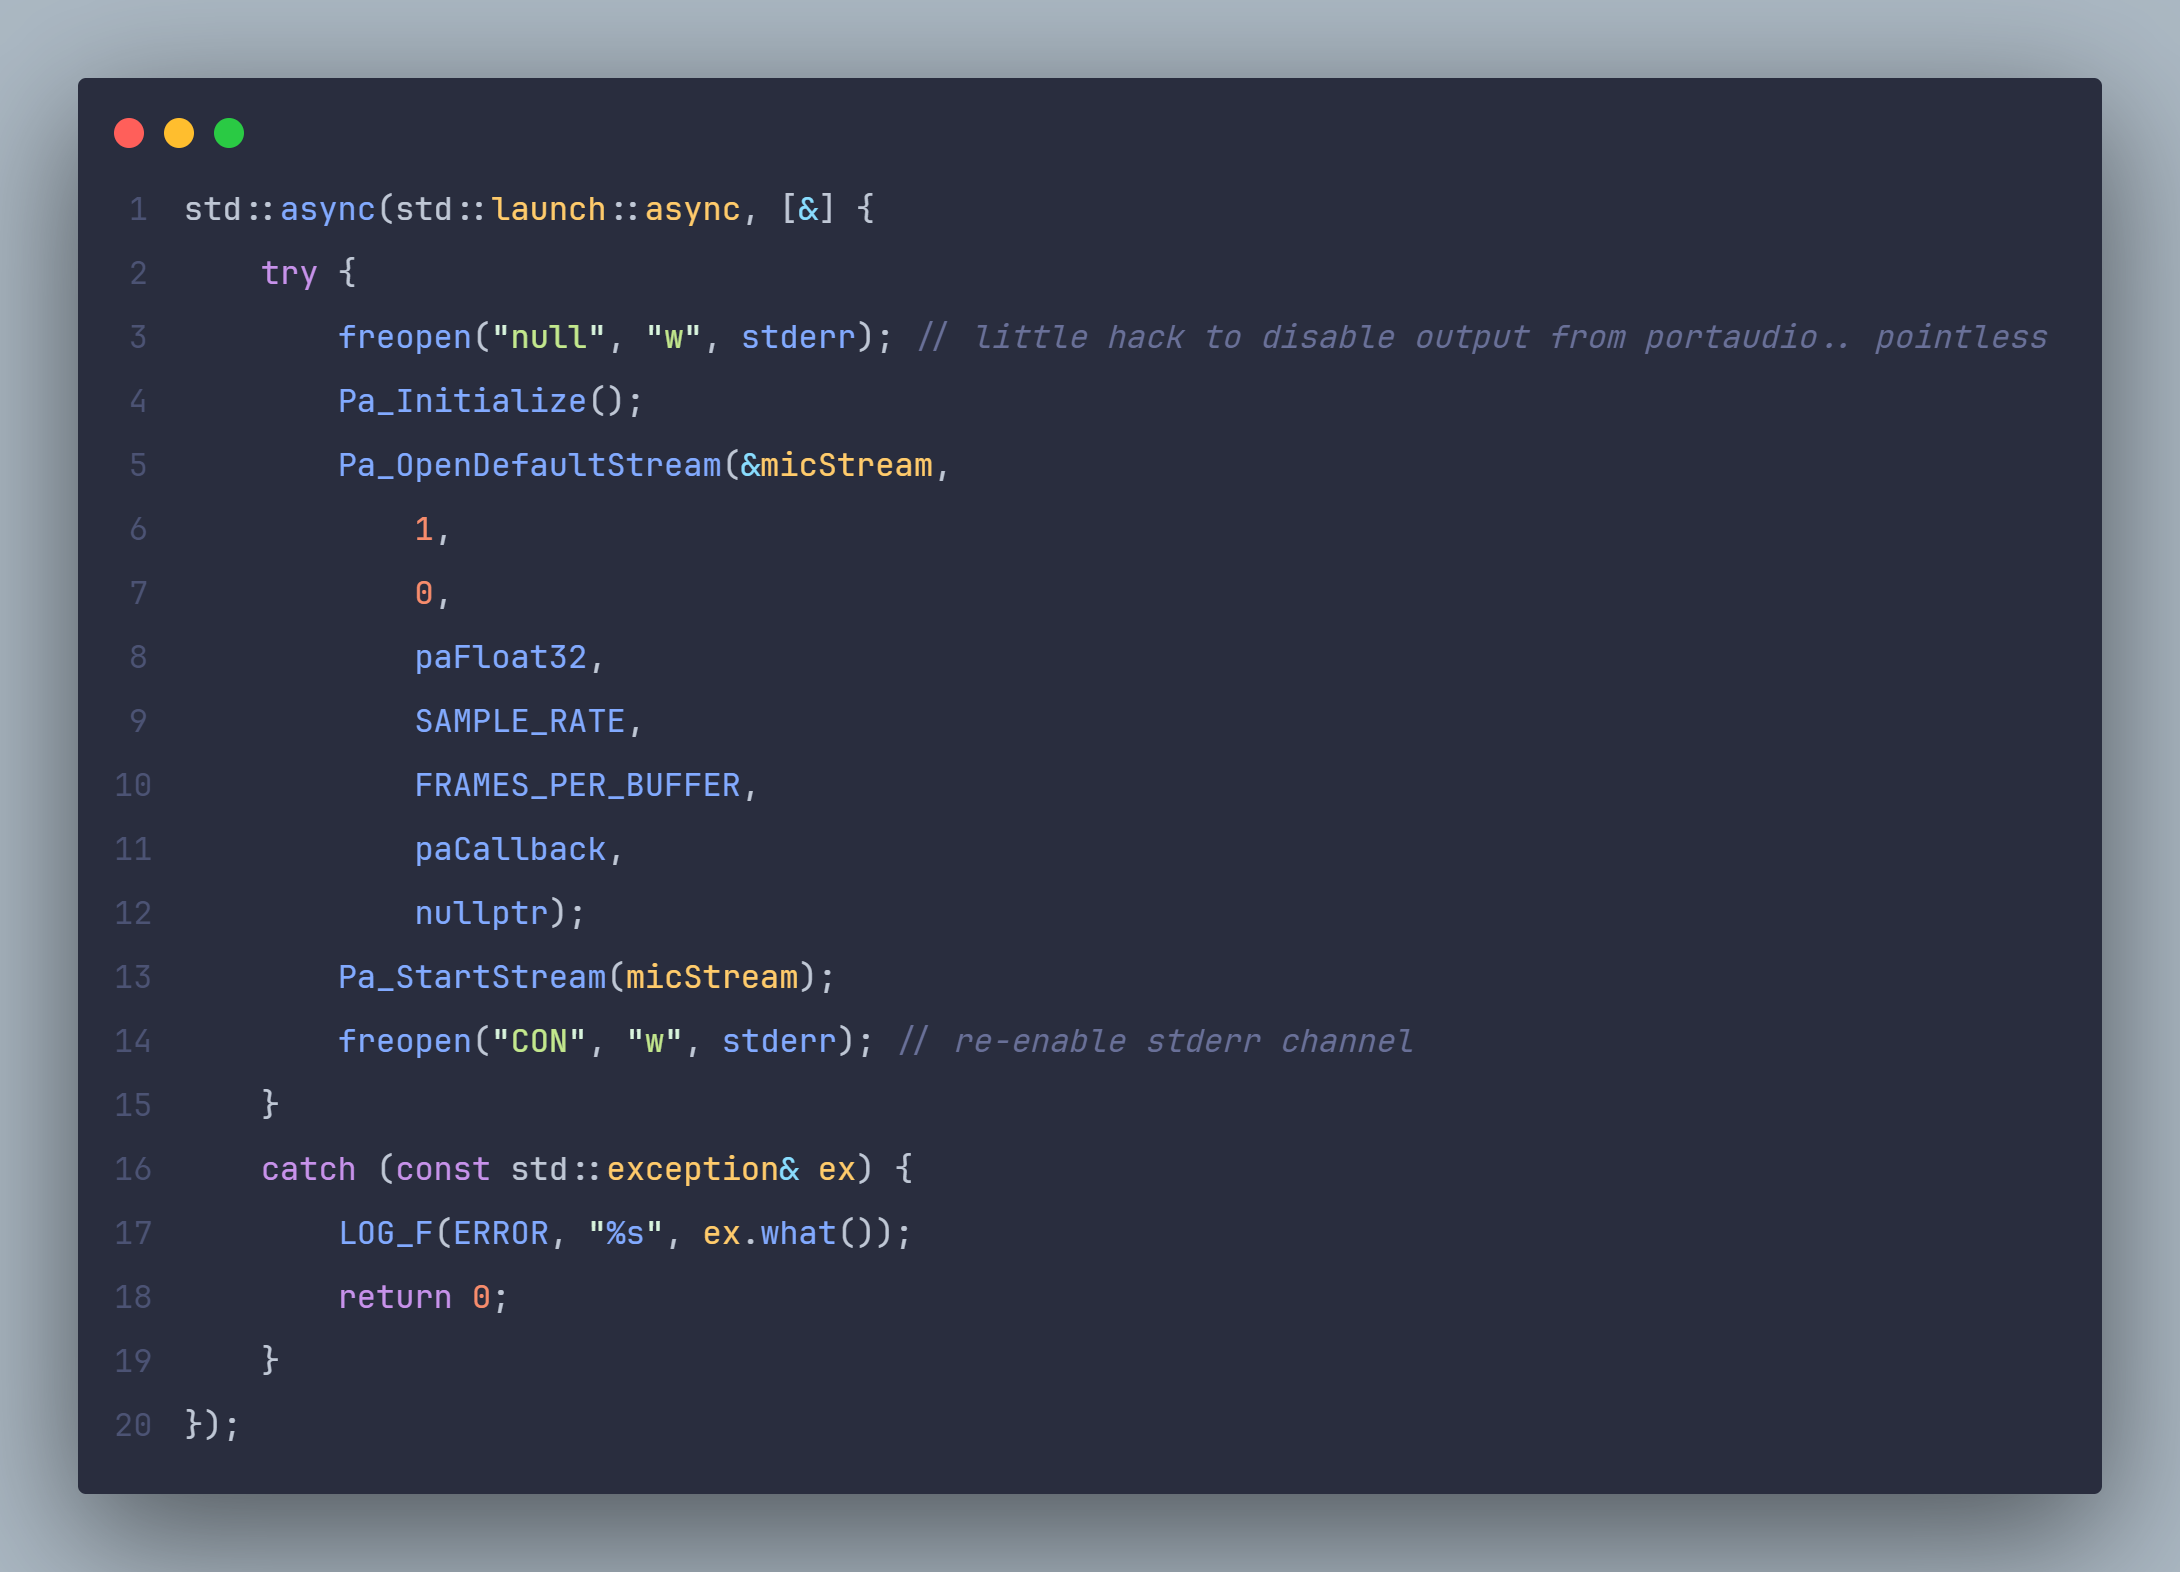
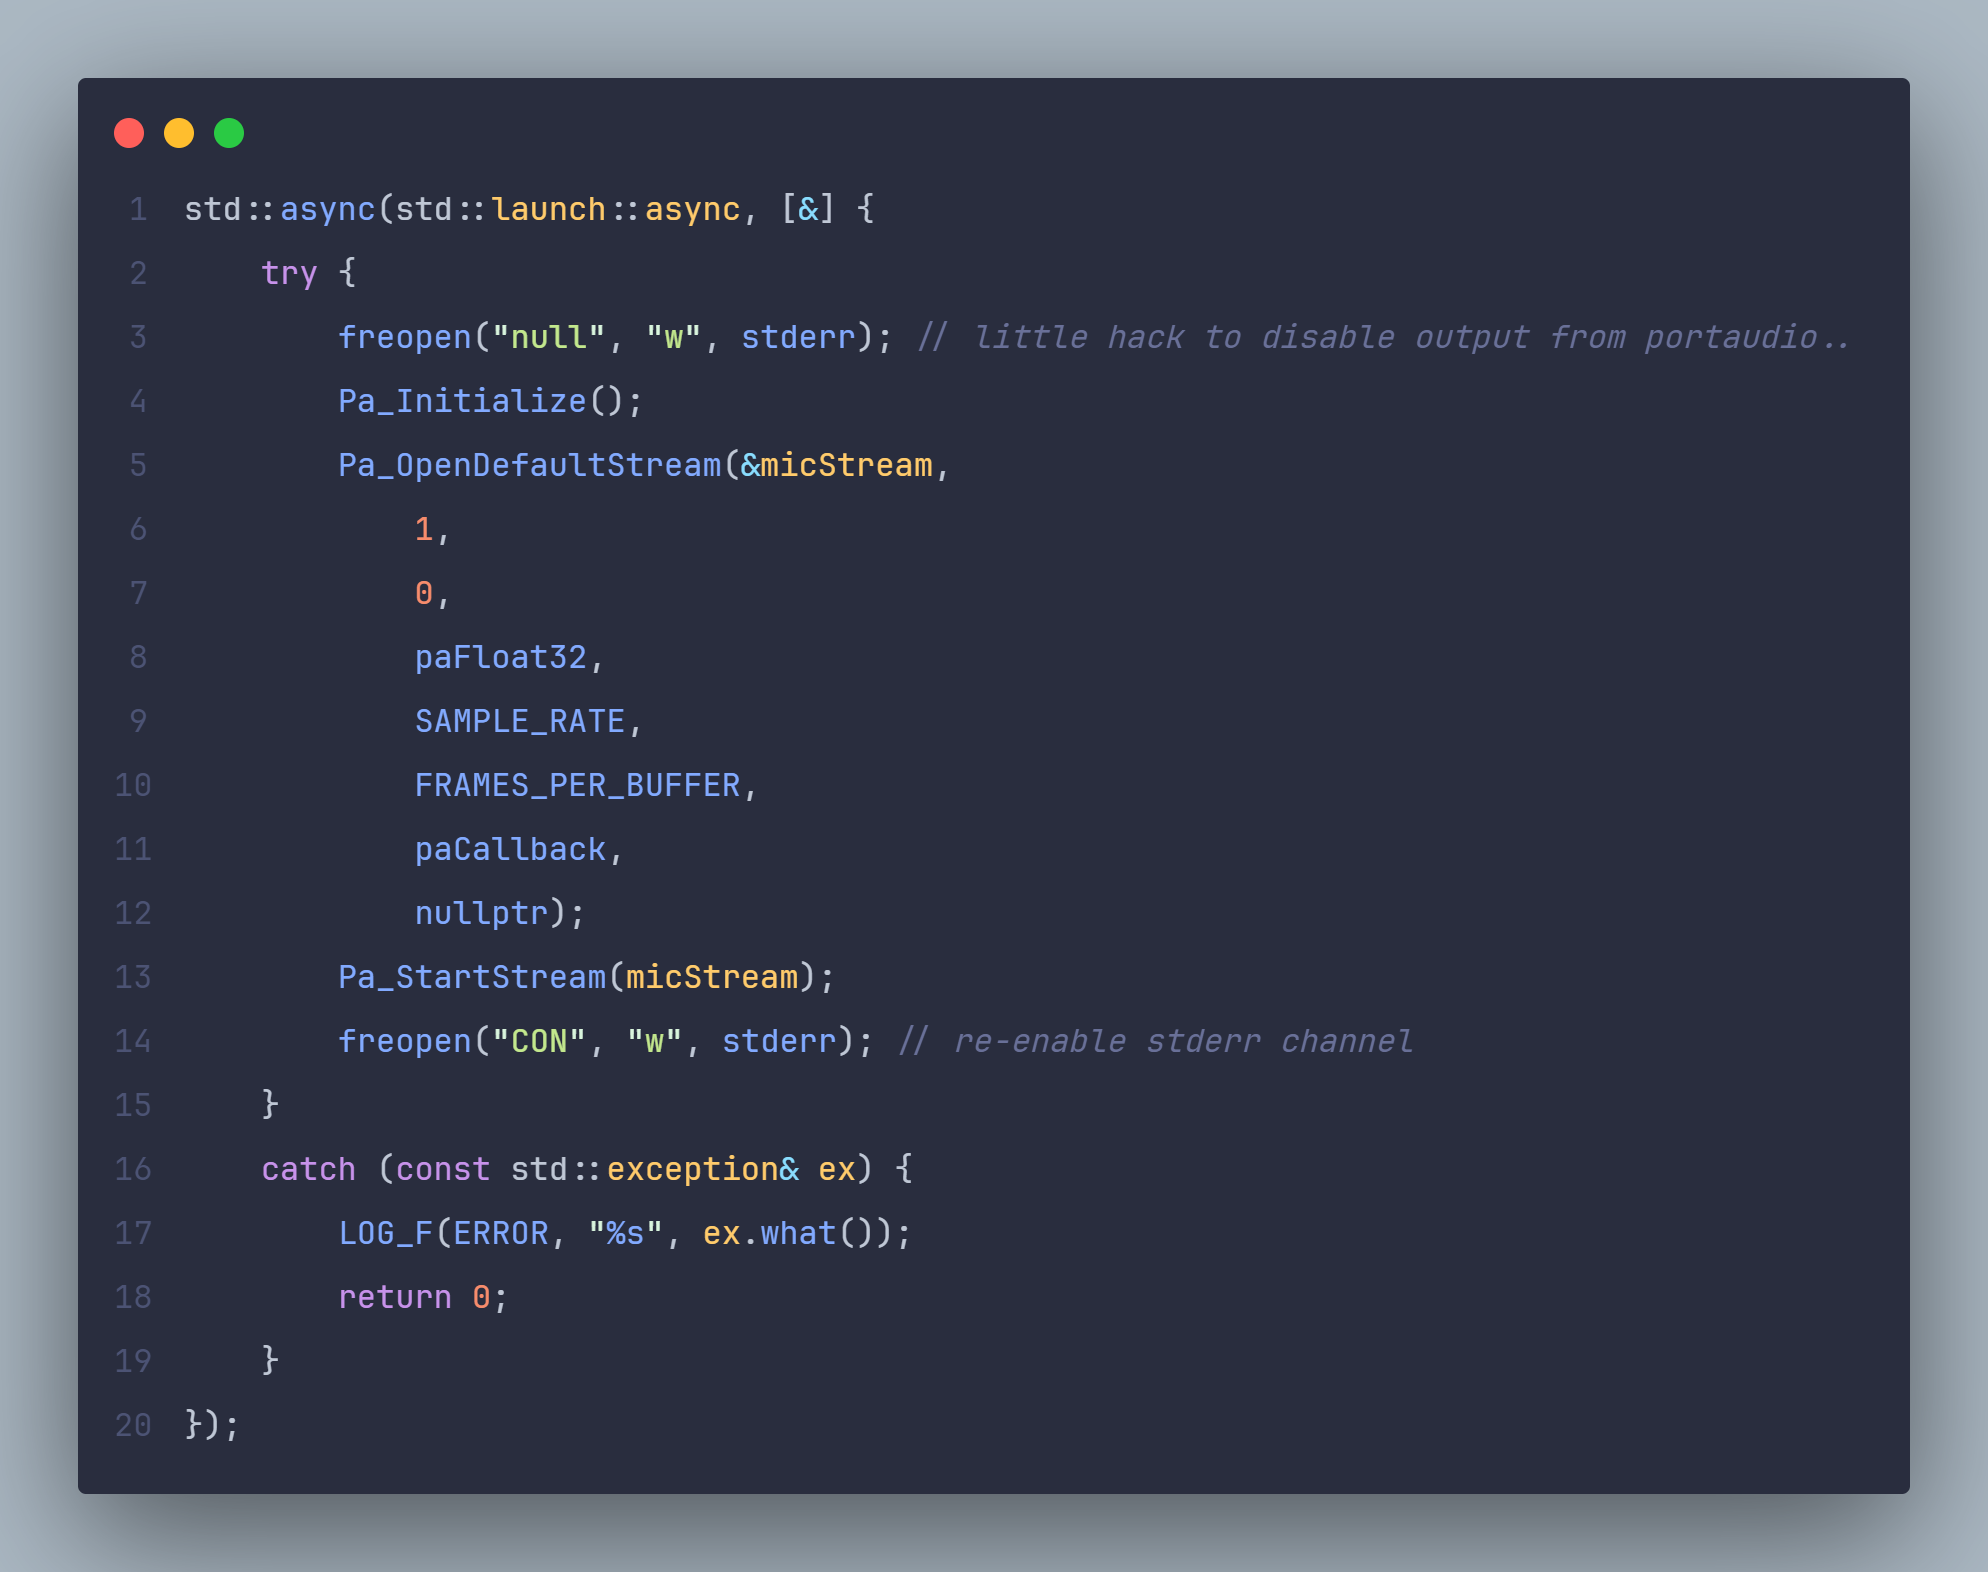
imgs

diff --git a/backend/src/main.cc b/backend/src/main.cc
@@ -124,7 +124,7 @@ int main(int argc, char* argv[])
 
 	std::async(std::launch::async, [&] {
 		try {
-			freopen("null", "w", stderr); // little hack to disable output from portaudio.. pointless
+			freopen("null", "w", stderr); // little hack to disable output from portaudio..
 			Pa_Initialize();
 			Pa_OpenDefaultStream(&micStream,
 				1,         
